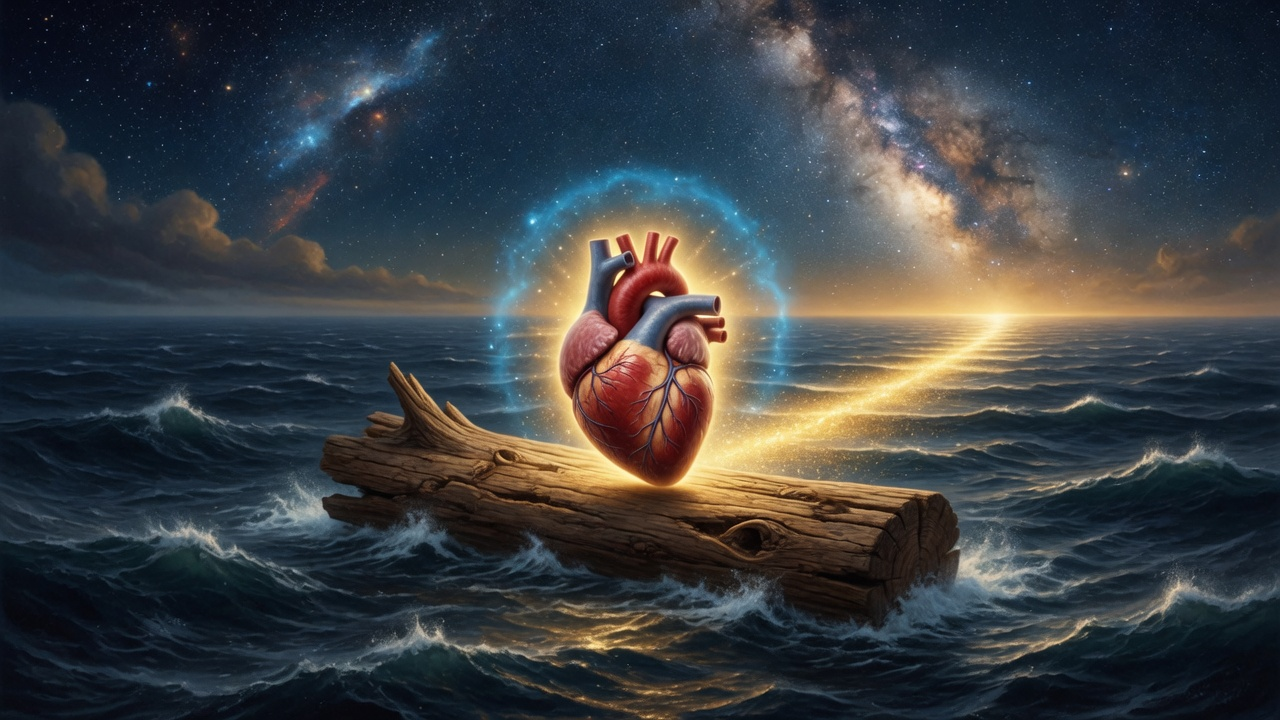
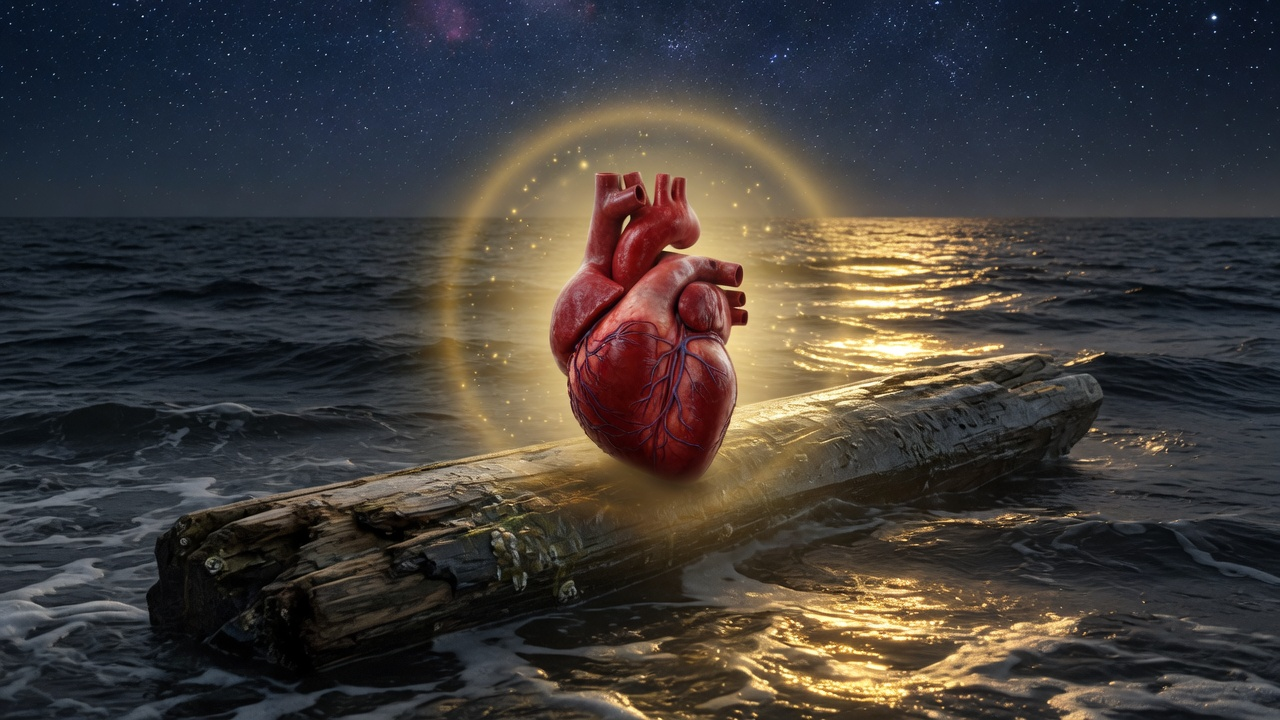
remove uloop

diff --git a/ancient.html b/ancient.html
@@ -6,7 +6,7 @@
     <title>Ancient Wisdom • CosmicTrotter</title>
     <link rel="canonical" href="https://cosmictrotter.com/ancient.html">
     
-    <meta name="description" content="Timeless teachings from the Vedas and Puranas. Explore Lord Vishnu's Dashavatara, Lord Jagannath of Puri, and other core wisdom from ancient India.">
+    <meta name="description" content="Timeless teachings from the Vedas and Puranas. Explore Dashavatara, Lord Jagannath of Puri, and other core wisdom from ancient India.">
     
     <script src="https://cdn.tailwindcss.com"></script>
     <link rel="stylesheet" href="https://cdnjs.cloudflare.com/ajax/libs/font-awesome/6.5.1/css/all.min.css" integrity="sha384-t1nt8BQoYMLFN5p42tRAtuAAFQaCQODekUVeKKZrEnEyp4H2R0RHFz0KWpmj7i8g" crossorigin="anonymous">
@@ -204,19 +204,6 @@
                 isDashavatara: true
             },
             {
-
-                href: "uloop.html",
-                category: "puranas",
-                level: "Storybook",
-                read: "5 min",
-                title: "Uloop: The Rhythm of Return",
-                desc: "A luminous story of recurrence, remembrance, and the sacred loop that turns endings into beginnings.",
-                icon: "fa-rotate",
-                iconColor: "from-cyan-400 to-emerald-500",
-                iconBg: "text-black",
-                isUloop: true
-            },
-            {
                 href: "puri-jaganath.html",
                 category: "puranas",
                 level: "Origin → Rituals",
@@ -334,13 +321,13 @@
             }
 
             container.innerHTML = filtered.map(a => {
-                const isFeatured = a.isDashavatara || a.isUloop;
+                const isFeatured = a.isDashavatara;
                 const cardClasses = `wisdom-card cosmic-card rounded-xl p-5 border border-white/10 group ${isFeatured ? 'border-amber-400/30 bg-amber-900/5' : ''}`;
                 const titleHover = isFeatured ? 'group-hover:text-amber-300' : 'group-hover:text-[#00f3ff]';
-                const badgeText = a.isDashavatara ? 'ILLUSTRATED JOURNEY' : a.isUloop ? 'STORYBOOK PATH' : 'DEEP DIVE';
+                const badgeText = a.isDashavatara ? 'ILLUSTRATED JOURNEY' : 'DEEP DIVE';
                 const badgeColor = isFeatured ? 'text-amber-300' : 'text-amber-400';
                 const readBadge = isFeatured ? 'bg-amber-400/10 text-amber-300' : 'bg-white/10';
-                const actionText = a.isDashavatara ? 'Start the Journey' : a.isUloop ? 'Enter the Story' : 'Read Article';
+                const actionText = a.isDashavatara ? 'Start the Journey' : 'Read Article';
                 const actionColor = isFeatured ? 'text-amber-300' : 'text-[#00f3ff]';
                 
                 return `
